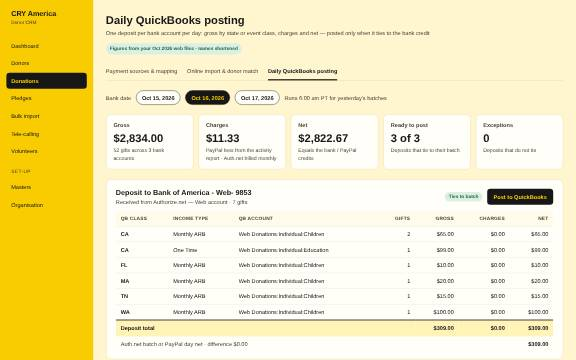
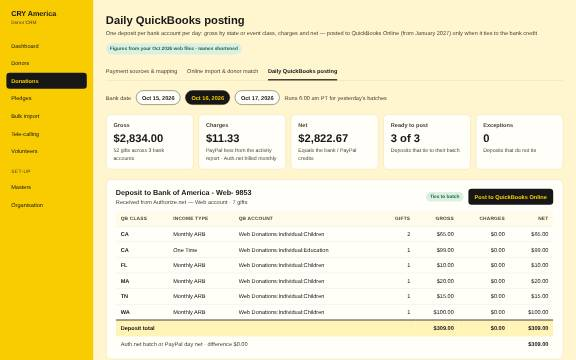
Post to QuickBooks Online (CRY migrates to QBO in January 2027)
- WF-7 and the daily posting screen now post via the QBO API
- Until cutover the daily summary is a file for entry in QuickBooks Desktop

Claude-Session: https://claude.ai/code/session_012G5zuh1qeeaBXhxrmdcrmu

Changed region(s): [[0.625, 0.0611, 0.9375, 0.1222], [0.7188, 0.5194, 0.9375, 0.5806]]

diff --git a/PAY-QBO.dc.html b/PAY-QBO.dc.html
@@ -30,7 +30,7 @@ a{color:#171717}a:hover{color:#8A5A00}
 </nav>
 <main style="flex: 999 1 560px; min-width: 0; padding: 32px 32px 48px; box-sizing: border-box; display: flex; flex-direction: column; gap: 24px">
 <div style="display: flex; flex-wrap: wrap; gap: 16px; justify-content: space-between; align-items: flex-end">
-<div style="display: flex; flex-direction: column; gap: 4px"><h1 style="margin: 0; font-size: 28px; line-height: 36px; font-weight: 600">Daily QuickBooks posting</h1><span style="color: #4A4636">One deposit per bank account per day: gross by state or event class, charges and net — posted only when it ties to the bank credit</span></div>
+<div style="display: flex; flex-direction: column; gap: 4px"><h1 style="margin: 0; font-size: 28px; line-height: 36px; font-weight: 600">Daily QuickBooks posting</h1><span style="color: #4A4636">One deposit per bank account per day: gross by state or event class, charges and net — posted to QuickBooks Online (from January 2027) only when it ties to the bank credit</span></div>
 <div style="display: flex; flex-wrap: wrap; gap: 12px; align-items: center"><span style="padding: 4px 10px; border-radius: 999px; background: #DCEFE3; color: #1E6B47; font-size: 12px; font-weight: 600">Figures from your Oct 2026 web files · names shortened</span></div>
 </div>
 <div role="tablist" aria-label="Payments" style="display: flex; gap: 24px; border-bottom: 1px solid #E8D9A8; flex-wrap: wrap"><a href="PAY-Sources.dc.html" role="tab" aria-selected="false" style="padding: 8px 0 10px; text-decoration: none; white-space: nowrap; color: #4A4636">Payment sources & mapping</a><a href="PAY-Import.dc.html" role="tab" aria-selected="false" style="padding: 8px 0 10px; text-decoration: none; white-space: nowrap; color: #4A4636">Online import & donor match</a><a href="PAY-QBO.dc.html" role="tab" aria-selected="true" style="padding: 8px 0 10px; text-decoration: none; white-space: nowrap; border-bottom: 3px solid #171717; font-weight: 600; color: #171717">Daily QuickBooks posting</a></div>
@@ -54,7 +54,7 @@ a{color:#171717}a:hover{color:#8A5A00}
 class Component extends DCLogic {
 constructor(props) { super(props); this.state = { day: 'Oct 16' }; }
 renderVals() {
-const D = {"Oct 15": {"deps": [{"bank": "Bank of America - Web- 9853", "from": "Authorize.net \u2014 Web account", "lines": [{"cls": "CA", "it": "Monthly ARB", "acct": "Web Donations:Individual:Children", "n": 3, "g": "$110.00", "c": "$0.00", "net": "$110.00"}, {"cls": "FL", "it": "Monthly ARB", "acct": "Web Donations:Individual:Children", "n": 1, "g": "$50.00", "c": "$0.00", "net": "$50.00"}, {"cls": "VA", "it": "Monthly ARB", "acct": "Web Donations:Individual:Children", "n": 1, "g": "$25.00", "c": "$0.00", "net": "$25.00"}], "n": 5, "g": "$185.00", "c": "$0.00", "net": "$185.00", "batch": "$185.00", "diff": "$0.00", "st": "Ties to batch", "sbg": "#DCEFE3", "sfg": "#1E6B47", "can": "true", "btn": "Post to QuickBooks", "bbg": "#171717", "bfg": "#F9CC02"}, {"bank": "Bank of America -Web Event-1161", "from": "Authorize.net \u2014 Events account", "lines": [{"cls": "CA:San Diego:Dandiya", "it": "Event Registrations", "acct": "Event Donations:Ticket Sales", "n": 10, "g": "$831.00", "c": "$0.00", "net": "$831.00"}, {"cls": "CA:San Diego:Dandiya", "it": "Event Sponsorships", "acct": "Event Donations:Sponsorships", "n": 1, "g": "$100.00", "c": "$0.00", "net": "$100.00"}, {"cls": "TX:Houston:Dandia", "it": "Event Registrations", "acct": "Event Donations:Ticket Sales", "n": 3, "g": "$75.00", "c": "$0.00", "net": "$75.00"}], "n": 14, "g": "$1,006.00", "c": "$0.00", "net": "$1,006.00", "batch": "$1,006.00", "diff": "$0.00", "st": "Ties to batch", "sbg": "#DCEFE3", "sfg": "#1E6B47", "can": "true", "btn": "Post to QuickBooks", "bbg": "#171717", "bfg": "#F9CC02"}, {"bank": "PayPal Account", "from": "PayPal", "lines": [{"cls": "CA:San Diego:Dandiya", "it": "Event Registrations", "acct": "Event Donations:Ticket Sales", "n": 2, "g": "$70.00", "c": "$2.25", "net": "$67.75"}, {"cls": "TX", "it": "One Time", "acct": "Web Donations:Individual:Children", "n": 1, "g": "$151.00", "c": "$3.49", "net": "$147.51"}, {"cls": "TX:Houston:Dandia", "it": "Event Registrations", "acct": "Event Donations:Ticket Sales", "n": 2, "g": "$312.00", "c": "$7.19", "net": "$304.81"}], "n": 5, "g": "$533.00", "c": "$12.93", "net": "$520.07", "batch": "$520.07", "diff": "$0.00", "st": "Ties to batch", "sbg": "#DCEFE3", "sfg": "#1E6B47", "can": "true", "btn": "Post to QuickBooks", "bbg": "#171717", "bfg": "#F9CC02"}], "kpis": [{"l": "Gross", "v": "$1,724.00", "n": "24 gifts across 3 bank accounts"}, {"l": "Charges", "v": "$12.93", "n": "PayPal fees from the activity report \u00b7 Auth.net billed monthly"}, {"l": "Net", "v": "$1,711.07", "n": "Equals the bank / PayPal credits"}, {"l": "Ready to post", "v": "3 of 3", "n": "Deposits that tie to their batch"}, {"l": "Exceptions", "v": "0", "n": "Deposits that do not tie"}], "exc": []}, "Oct 16": {"deps": [{"bank": "Bank of America - Web- 9853", "from": "Authorize.net \u2014 Web account", "lines": [{"cls": "CA", "it": "Monthly ARB", "acct": "Web Donations:Individual:Children", "n": 2, "g": "$65.00", "c": "$0.00", "net": "$65.00"}, {"cls": "CA", "it": "One Time", "acct": "Web Donations:Individual:Education", "n": 1, "g": "$99.00", "c": "$0.00", "net": "$99.00"}, {"cls": "FL", "it": "Monthly ARB", "acct": "Web Donations:Individual:Children", "n": 1, "g": "$10.00", "c": "$0.00", "net": "$10.00"}, {"cls": "MA", "it": "Monthly ARB", "acct": "Web Donations:Individual:Children", "n": 1, "g": "$20.00", "c": "$0.00", "net": "$20.00"}, {"cls": "TN", "it": "Monthly ARB", "acct": "Web Donations:Individual:Children", "n": 1, "g": "$15.00", "c": "$0.00", "net": "$15.00"}, {"cls": "WA", "it": "Monthly ARB", "acct": "Web Donations:Individual:Children", "n": 1, "g": "$100.00", "c": "$0.00", "net": "$100.00"}], "n": 7, "g": "$309.00", "c": "$0.00", "net": "$309.00", "batch": "$309.00", "diff": "$0.00", "st": "Ties to batch", "sbg": "#DCEFE3", "sfg": "#1E6B47", "can": "true", "btn": "Post to QuickBooks", "bbg": "#171717", "bfg": "#F9CC02"}, {"bank": "Bank of America -Web Event-1161", "from": "Authorize.net \u2014 Events account", "lines": [{"cls": "CA:San Diego:Dandiya", "it": "Event Donations", "acct": "Event Donations:Child Rights", "n": 1, "g": "$25.00", "c": "$0.00", "net": "$25.00"}, {"cls": "CA:San Diego:Dandiya", "it": "Event Registrations", "acct": "Event Donations:Ticket Sales", "n": 29, "g": "$1,701.00", "c": "$0.00", "net": "$1,701.00"}, {"cls": "TX:Houston:Dandia", "it": "Event Registrations", "acct": "Event Donations:Ticket Sales", "n": 7, "g": "$421.00", "c": "$0.00", "net": "$421.00"}], "n": 37, "g": "$2,147.00", "c": "$0.00", "net": "$2,147.00", "batch": "$2,147.00", "diff": "$0.00", "st": "Ties to batch", "sbg": "#DCEFE3", "sfg": "#1E6B47", "can": "true", "btn": "Post to QuickBooks", "bbg": "#171717", "bfg": "#F9CC02"}, {"bank": "PayPal Account", "from": "PayPal", "lines": [{"cls": "CA:San Diego:Dandiya", "it": "Event Registrations", "acct": "Event Donations:Ticket Sales", "n": 8, "g": "$378.00", "c": "$11.33", "net": "$366.67"}], "n": 8, "g": "$378.00", "c": "$11.33", "net": "$366.67", "batch": "$366.67", "diff": "$0.00", "st": "Ties to batch", "sbg": "#DCEFE3", "sfg": "#1E6B47", "can": "true", "btn": "Post to QuickBooks", "bbg": "#171717", "bfg": "#F9CC02"}], "kpis": [{"l": "Gross", "v": "$2,834.00", "n": "52 gifts across 3 bank accounts"}, {"l": "Charges", "v": "$11.33", "n": "PayPal fees from the activity report \u00b7 Auth.net billed monthly"}, {"l": "Net", "v": "$2,822.67", "n": "Equals the bank / PayPal credits"}, {"l": "Ready to post", "v": "3 of 3", "n": "Deposits that tie to their batch"}, {"l": "Exceptions", "v": "0", "n": "Deposits that do not tie"}], "exc": []}, "Oct 17": {"deps": [{"bank": "Bank of America - Web- 9853", "from": "Authorize.net \u2014 Web account", "lines": [{"cls": "CA", "it": "Monthly ARB", "acct": "Web Donations:Individual:Children", "n": 2, "g": "$65.00", "c": "$0.00", "net": "$65.00"}, {"cls": "CA", "it": "One Time", "acct": "Web Donations:Individual:Education", "n": 1, "g": "$49.00", "c": "$0.00", "net": "$49.00"}, {"cls": "IL", "it": "Monthly ARB", "acct": "Web Donations:Individual:Children", "n": 1, "g": "$25.00", "c": "$0.00", "net": "$25.00"}, {"cls": "MI", "it": "One Time", "acct": "Web Donations:Individual:Children", "n": 1, "g": "$500.00", "c": "$0.00", "net": "$500.00"}, {"cls": "OK", "it": "Monthly ARB", "acct": "Web Donations:Individual:Children", "n": 1, "g": "$50.00", "c": "$0.00", "net": "$50.00"}, {"cls": "TN", "it": "Monthly ARB", "acct": "Web Donations:Individual:Children", "n": 1, "g": "$25.00", "c": "$0.00", "net": "$25.00"}, {"cls": "TN", "it": "One Time", "acct": "Web Donations:Individual:Children", "n": 1, "g": "$750.00", "c": "$0.00", "net": "$750.00"}], "n": 8, "g": "$1,464.00", "c": "$0.00", "net": "$1,464.00", "batch": "$1,464.00", "diff": "$0.00", "st": "Ties to batch", "sbg": "#DCEFE3", "sfg": "#1E6B47", "can": "true", "btn": "Post to QuickBooks", "bbg": "#171717", "bfg": "#F9CC02"}, {"bank": "Bank of America -Web Event-1161", "from": "Authorize.net \u2014 Events account", "lines": [{"cls": "CA:San Diego:Dandiya", "it": "Event Registrations", "acct": "Event Donations:Ticket Sales", "n": 69, "g": "$5,172.00", "c": "$0.00", "net": "$5,172.00"}, {"cls": "TX:Houston:Dandia", "it": "Event Registrations", "acct": "Event Donations:Ticket Sales", "n": 5, "g": "$173.00", "c": "$0.00", "net": "$173.00"}], "n": 74, "g": "$5,345.00", "c": "$0.00", "net": "$5,345.00", "batch": "$5,345.00", "diff": "$0.00", "st": "Ties to batch", "sbg": "#DCEFE3", "sfg": "#1E6B47", "can": "true", "btn": "Post to QuickBooks", "bbg": "#171717", "bfg": "#F9CC02"}, {"bank": "PayPal Account", "from": "PayPal", "lines": [{"cls": "CA:San Diego:Dandiya", "it": "Event Registrations", "acct": "Event Donations:Ticket Sales", "n": 9, "g": "$613.00", "c": "$16.43", "net": "$596.57"}], "n": 9, "g": "$613.00", "c": "$16.43", "net": "$596.57", "batch": "$596.57", "diff": "$0.00", "st": "Ties to batch", "sbg": "#DCEFE3", "sfg": "#1E6B47", "can": "true", "btn": "Post to QuickBooks", "bbg": "#171717", "bfg": "#F9CC02"}], "kpis": [{"l": "Gross", "v": "$7,422.00", "n": "91 gifts across 3 bank accounts"}, {"l": "Charges", "v": "$16.43", "n": "PayPal fees from the activity report \u00b7 Auth.net billed monthly"}, {"l": "Net", "v": "$7,405.57", "n": "Equals the bank / PayPal credits"}, {"l": "Ready to post", "v": "3 of 3", "n": "Deposits that tie to their batch"}, {"l": "Exceptions", "v": "0", "n": "Deposits that do not tie"}], "exc": []}};
+const D = {"Oct 15": {"deps": [{"bank": "Bank of America - Web- 9853", "from": "Authorize.net \u2014 Web account", "lines": [{"cls": "CA", "it": "Monthly ARB", "acct": "Web Donations:Individual:Children", "n": 3, "g": "$110.00", "c": "$0.00", "net": "$110.00"}, {"cls": "FL", "it": "Monthly ARB", "acct": "Web Donations:Individual:Children", "n": 1, "g": "$50.00", "c": "$0.00", "net": "$50.00"}, {"cls": "VA", "it": "Monthly ARB", "acct": "Web Donations:Individual:Children", "n": 1, "g": "$25.00", "c": "$0.00", "net": "$25.00"}], "n": 5, "g": "$185.00", "c": "$0.00", "net": "$185.00", "batch": "$185.00", "diff": "$0.00", "st": "Ties to batch", "sbg": "#DCEFE3", "sfg": "#1E6B47", "can": "true", "btn": "Post to QuickBooks Online", "bbg": "#171717", "bfg": "#F9CC02"}, {"bank": "Bank of America -Web Event-1161", "from": "Authorize.net \u2014 Events account", "lines": [{"cls": "CA:San Diego:Dandiya", "it": "Event Registrations", "acct": "Event Donations:Ticket Sales", "n": 10, "g": "$831.00", "c": "$0.00", "net": "$831.00"}, {"cls": "CA:San Diego:Dandiya", "it": "Event Sponsorships", "acct": "Event Donations:Sponsorships", "n": 1, "g": "$100.00", "c": "$0.00", "net": "$100.00"}, {"cls": "TX:Houston:Dandia", "it": "Event Registrations", "acct": "Event Donations:Ticket Sales", "n": 3, "g": "$75.00", "c": "$0.00", "net": "$75.00"}], "n": 14, "g": "$1,006.00", "c": "$0.00", "net": "$1,006.00", "batch": "$1,006.00", "diff": "$0.00", "st": "Ties to batch", "sbg": "#DCEFE3", "sfg": "#1E6B47", "can": "true", "btn": "Post to QuickBooks Online", "bbg": "#171717", "bfg": "#F9CC02"}, {"bank": "PayPal Account", "from": "PayPal", "lines": [{"cls": "CA:San Diego:Dandiya", "it": "Event Registrations", "acct": "Event Donations:Ticket Sales", "n": 2, "g": "$70.00", "c": "$2.25", "net": "$67.75"}, {"cls": "TX", "it": "One Time", "acct": "Web Donations:Individual:Children", "n": 1, "g": "$151.00", "c": "$3.49", "net": "$147.51"}, {"cls": "TX:Houston:Dandia", "it": "Event Registrations", "acct": "Event Donations:Ticket Sales", "n": 2, "g": "$312.00", "c": "$7.19", "net": "$304.81"}], "n": 5, "g": "$533.00", "c": "$12.93", "net": "$520.07", "batch": "$520.07", "diff": "$0.00", "st": "Ties to batch", "sbg": "#DCEFE3", "sfg": "#1E6B47", "can": "true", "btn": "Post to QuickBooks Online", "bbg": "#171717", "bfg": "#F9CC02"}], "kpis": [{"l": "Gross", "v": "$1,724.00", "n": "24 gifts across 3 bank accounts"}, {"l": "Charges", "v": "$12.93", "n": "PayPal fees from the activity report \u00b7 Auth.net billed monthly"}, {"l": "Net", "v": "$1,711.07", "n": "Equals the bank / PayPal credits"}, {"l": "Ready to post", "v": "3 of 3", "n": "Deposits that tie to their batch"}, {"l": "Exceptions", "v": "0", "n": "Deposits that do not tie"}], "exc": []}, "Oct 16": {"deps": [{"bank": "Bank of America - Web- 9853", "from": "Authorize.net \u2014 Web account", "lines": [{"cls": "CA", "it": "Monthly ARB", "acct": "Web Donations:Individual:Children", "n": 2, "g": "$65.00", "c": "$0.00", "net": "$65.00"}, {"cls": "CA", "it": "One Time", "acct": "Web Donations:Individual:Education", "n": 1, "g": "$99.00", "c": "$0.00", "net": "$99.00"}, {"cls": "FL", "it": "Monthly ARB", "acct": "Web Donations:Individual:Children", "n": 1, "g": "$10.00", "c": "$0.00", "net": "$10.00"}, {"cls": "MA", "it": "Monthly ARB", "acct": "Web Donations:Individual:Children", "n": 1, "g": "$20.00", "c": "$0.00", "net": "$20.00"}, {"cls": "TN", "it": "Monthly ARB", "acct": "Web Donations:Individual:Children", "n": 1, "g": "$15.00", "c": "$0.00", "net": "$15.00"}, {"cls": "WA", "it": "Monthly ARB", "acct": "Web Donations:Individual:Children", "n": 1, "g": "$100.00", "c": "$0.00", "net": "$100.00"}], "n": 7, "g": "$309.00", "c": "$0.00", "net": "$309.00", "batch": "$309.00", "diff": "$0.00", "st": "Ties to batch", "sbg": "#DCEFE3", "sfg": "#1E6B47", "can": "true", "btn": "Post to QuickBooks Online", "bbg": "#171717", "bfg": "#F9CC02"}, {"bank": "Bank of America -Web Event-1161", "from": "Authorize.net \u2014 Events account", "lines": [{"cls": "CA:San Diego:Dandiya", "it": "Event Donations", "acct": "Event Donations:Child Rights", "n": 1, "g": "$25.00", "c": "$0.00", "net": "$25.00"}, {"cls": "CA:San Diego:Dandiya", "it": "Event Registrations", "acct": "Event Donations:Ticket Sales", "n": 29, "g": "$1,701.00", "c": "$0.00", "net": "$1,701.00"}, {"cls": "TX:Houston:Dandia", "it": "Event Registrations", "acct": "Event Donations:Ticket Sales", "n": 7, "g": "$421.00", "c": "$0.00", "net": "$421.00"}], "n": 37, "g": "$2,147.00", "c": "$0.00", "net": "$2,147.00", "batch": "$2,147.00", "diff": "$0.00", "st": "Ties to batch", "sbg": "#DCEFE3", "sfg": "#1E6B47", "can": "true", "btn": "Post to QuickBooks Online", "bbg": "#171717", "bfg": "#F9CC02"}, {"bank": "PayPal Account", "from": "PayPal", "lines": [{"cls": "CA:San Diego:Dandiya", "it": "Event Registrations", "acct": "Event Donations:Ticket Sales", "n": 8, "g": "$378.00", "c": "$11.33", "net": "$366.67"}], "n": 8, "g": "$378.00", "c": "$11.33", "net": "$366.67", "batch": "$366.67", "diff": "$0.00", "st": "Ties to batch", "sbg": "#DCEFE3", "sfg": "#1E6B47", "can": "true", "btn": "Post to QuickBooks Online", "bbg": "#171717", "bfg": "#F9CC02"}], "kpis": [{"l": "Gross", "v": "$2,834.00", "n": "52 gifts across 3 bank accounts"}, {"l": "Charges", "v": "$11.33", "n": "PayPal fees from the activity report \u00b7 Auth.net billed monthly"}, {"l": "Net", "v": "$2,822.67", "n": "Equals the bank / PayPal credits"}, {"l": "Ready to post", "v": "3 of 3", "n": "Deposits that tie to their batch"}, {"l": "Exceptions", "v": "0", "n": "Deposits that do not tie"}], "exc": []}, "Oct 17": {"deps": [{"bank": "Bank of America - Web- 9853", "from": "Authorize.net \u2014 Web account", "lines": [{"cls": "CA", "it": "Monthly ARB", "acct": "Web Donations:Individual:Children", "n": 2, "g": "$65.00", "c": "$0.00", "net": "$65.00"}, {"cls": "CA", "it": "One Time", "acct": "Web Donations:Individual:Education", "n": 1, "g": "$49.00", "c": "$0.00", "net": "$49.00"}, {"cls": "IL", "it": "Monthly ARB", "acct": "Web Donations:Individual:Children", "n": 1, "g": "$25.00", "c": "$0.00", "net": "$25.00"}, {"cls": "MI", "it": "One Time", "acct": "Web Donations:Individual:Children", "n": 1, "g": "$500.00", "c": "$0.00", "net": "$500.00"}, {"cls": "OK", "it": "Monthly ARB", "acct": "Web Donations:Individual:Children", "n": 1, "g": "$50.00", "c": "$0.00", "net": "$50.00"}, {"cls": "TN", "it": "Monthly ARB", "acct": "Web Donations:Individual:Children", "n": 1, "g": "$25.00", "c": "$0.00", "net": "$25.00"}, {"cls": "TN", "it": "One Time", "acct": "Web Donations:Individual:Children", "n": 1, "g": "$750.00", "c": "$0.00", "net": "$750.00"}], "n": 8, "g": "$1,464.00", "c": "$0.00", "net": "$1,464.00", "batch": "$1,464.00", "diff": "$0.00", "st": "Ties to batch", "sbg": "#DCEFE3", "sfg": "#1E6B47", "can": "true", "btn": "Post to QuickBooks Online", "bbg": "#171717", "bfg": "#F9CC02"}, {"bank": "Bank of America -Web Event-1161", "from": "Authorize.net \u2014 Events account", "lines": [{"cls": "CA:San Diego:Dandiya", "it": "Event Registrations", "acct": "Event Donations:Ticket Sales", "n": 69, "g": "$5,172.00", "c": "$0.00", "net": "$5,172.00"}, {"cls": "TX:Houston:Dandia", "it": "Event Registrations", "acct": "Event Donations:Ticket Sales", "n": 5, "g": "$173.00", "c": "$0.00", "net": "$173.00"}], "n": 74, "g": "$5,345.00", "c": "$0.00", "net": "$5,345.00", "batch": "$5,345.00", "diff": "$0.00", "st": "Ties to batch", "sbg": "#DCEFE3", "sfg": "#1E6B47", "can": "true", "btn": "Post to QuickBooks Online", "bbg": "#171717", "bfg": "#F9CC02"}, {"bank": "PayPal Account", "from": "PayPal", "lines": [{"cls": "CA:San Diego:Dandiya", "it": "Event Registrations", "acct": "Event Donations:Ticket Sales", "n": 9, "g": "$613.00", "c": "$16.43", "net": "$596.57"}], "n": 9, "g": "$613.00", "c": "$16.43", "net": "$596.57", "batch": "$596.57", "diff": "$0.00", "st": "Ties to batch", "sbg": "#DCEFE3", "sfg": "#1E6B47", "can": "true", "btn": "Post to QuickBooks Online", "bbg": "#171717", "bfg": "#F9CC02"}], "kpis": [{"l": "Gross", "v": "$7,422.00", "n": "91 gifts across 3 bank accounts"}, {"l": "Charges", "v": "$16.43", "n": "PayPal fees from the activity report \u00b7 Auth.net billed monthly"}, {"l": "Net", "v": "$7,405.57", "n": "Equals the bank / PayPal credits"}, {"l": "Ready to post", "v": "3 of 3", "n": "Deposits that tie to their batch"}, {"l": "Exceptions", "v": "0", "n": "Deposits that do not tie"}], "exc": []}};
 const d = this.state.day; const x = D[d];
 const dayTabs = Object.keys(D).map((k) => ({ label: k, sel: d === k ? 'true' : 'false', bg: d === k ? '#171717' : '#FFFEF9', fg: d === k ? '#F9CC02' : '#171717', pick: () => this.setState({ day: k }) }));
 return { dayTabs: dayTabs, kpis: x.kpis, deps: x.deps, exc: x.exc, hasExc: x.exc.length > 0 };

diff --git a/WF7-Daily-QBO-Summary.dc.html b/WF7-Daily-QBO-Summary.dc.html
@@ -27,7 +27,7 @@ body{margin:0}
 <svg width="78" height="8" viewBox="0 0 78 8" preserveAspectRatio="none" style="position: absolute; left: 1536px; top: 396px; width: 78px; height: 8px; overflow: visible; fill: none; stroke: #8a8378; stroke-width: 2; stroke-linecap: round; stroke-linejoin: round"><defs><marker id="pf-ah-WF-7-11" orient="auto" markerWidth="5" markerHeight="5" refX="2" refY="2" overflow="visible"><path d="M0 0 L4 2 L0 4 Z" fill="#8a8378" stroke="none" style="stroke: none; fill: #8a8378; fill: context-stroke"/></marker></defs><path d="M 4 4 L 70 4" marker-end="url(#pf-ah-WF-7-11)"></path></svg>
 <svg width="8" height="108" viewBox="0 0 8 108" preserveAspectRatio="none" style="position: absolute; left: 1721px; top: 456px; width: 8px; height: 108px; overflow: visible; fill: none; stroke: #8a8378; stroke-width: 2; stroke-linecap: round; stroke-linejoin: round"><defs><marker id="pf-ah-WF-7-12" orient="auto" markerWidth="5" markerHeight="5" refX="2" refY="2" overflow="visible"><path d="M0 0 L4 2 L0 4 Z" fill="#8a8378" stroke="none" style="stroke: none; fill: #8a8378; fill: context-stroke"/></marker></defs><path d="M 4 4 L 4 100" marker-end="url(#pf-ah-WF-7-12)"></path></svg>
 <svg width="78" height="8" viewBox="0 0 78 8" preserveAspectRatio="none" style="position: absolute; left: 1836px; top: 611px; width: 78px; height: 8px; overflow: visible; fill: none; stroke: #8a8378; stroke-width: 2; stroke-linecap: round; stroke-linejoin: round"><defs><marker id="pf-ah-WF-7-13" orient="auto" markerWidth="5" markerHeight="5" refX="2" refY="2" overflow="visible"><path d="M0 0 L4 2 L0 4 Z" fill="#8a8378" stroke="none" style="stroke: none; fill: #8a8378; fill: context-stroke"/></marker></defs><path d="M 4 4 L 70 4" marker-end="url(#pf-ah-WF-7-13)"></path></svg>
-<div style="position: absolute; left: 64px; top: 48px; font-size: 24px; line-height: 32px; font-weight: 600; color: #171717">WF-7 · Daily QBO summary that ties to the bank</div><div style="position: absolute; left: 64px; top: 86px; width: 2112px; font-size: 14px; line-height: 20px; color: #4A4636">Runs every morning. One QBO deposit per bank account per settlement batch, with gross by state or event class, charges and net. Net must equal the bank credit before it posts.</div>
+<div style="position: absolute; left: 64px; top: 48px; font-size: 24px; line-height: 32px; font-weight: 600; color: #171717">WF-7 · Daily QuickBooks Online summary that ties to the bank</div><div style="position: absolute; left: 64px; top: 86px; width: 2112px; font-size: 14px; line-height: 20px; color: #4A4636">Runs every morning. One QBO deposit per bank account per settlement batch, with gross by state or event class, charges and net. Net must equal the bank credit before it posts.</div>
 <div style="position: absolute; left: 64px; top: 160px; width: 250px; height: 92px; box-sizing: border-box; padding: 10px 12px; display: flex; align-items: center; justify-content: center; text-align: center; background: #F9CC02; border: 1px solid #E3C3A0; border-radius: 10px; font-size: 14px; line-height: 18px; color: #171717"><span><b>Auth.net — Web account</b><br>Settled batch → BoA Web- 9853</span></div>
 <div style="position: absolute; left: 64px; top: 280px; width: 250px; height: 92px; box-sizing: border-box; padding: 10px 12px; display: flex; align-items: center; justify-content: center; text-align: center; background: #F9CC02; border: 1px solid #E3C3A0; border-radius: 10px; font-size: 14px; line-height: 18px; color: #171717"><span><b>Auth.net — Events account</b><br>Settled batch → BoA Web Event-1161</span></div>
 <div style="position: absolute; left: 64px; top: 400px; width: 250px; height: 92px; box-sizing: border-box; padding: 10px 12px; display: flex; align-items: center; justify-content: center; text-align: center; background: #F9CC02; border: 1px solid #E3C3A0; border-radius: 10px; font-size: 14px; line-height: 18px; color: #171717"><span><b>PayPal activity report</b><br>Gross, fee, net per day → PayPal Account</span></div>
@@ -39,12 +39,12 @@ body{margin:0}
 <div style="position: absolute; left: 1320px; top: 140px; width: 220px; height: 110px; box-sizing: border-box; padding: 10px 12px; display: flex; align-items: center; justify-content: center; text-align: center; background: #FBE4E2; border: 1px solid #E8B9B4; border-radius: 10px; font-size: 14px; line-height: 18px; color: #171717"><span><b>Exception queue</b><br>Gift missing in batch, extra in batch, or amount differs</span></div>
 <div style="position: absolute; left: 1440px; top: 282px; width: 40px; text-align: center; font-size: 13px; line-height: 16px; color: #4A4636; background: #FFF6CF">no</div>
 <div style="position: absolute; left: 1150px; top: 170px; width: 120px; text-align: center; font-size: 13px; line-height: 16px; color: #4A4636; background: #FFF6CF">fixed → rebuild</div>
-<div style="position: absolute; left: 1610px; top: 340px; width: 230px; height: 120px; box-sizing: border-box; padding: 10px 12px; display: flex; align-items: center; justify-content: center; text-align: center; background: #EAF0F8; border: 1px solid #C9D5E8; border-radius: 10px; font-size: 14px; line-height: 18px; color: #171717"><span><b>Post to QBO</b><br>DepositAdd: bank, account, class, payment method, amount, memo (QB ListIDs)</span></div>
+<div style="position: absolute; left: 1610px; top: 340px; width: 230px; height: 120px; box-sizing: border-box; padding: 10px 12px; display: flex; align-items: center; justify-content: center; text-align: center; background: #EAF0F8; border: 1px solid #C9D5E8; border-radius: 10px; font-size: 14px; line-height: 18px; color: #171717"><span><b>Post to QBO</b><br>QBO API Deposit: bank, account, class, payment method, amount, memo (QBO IDs)</span></div>
 <div style="position: absolute; left: 1546px; top: 378px; width: 40px; text-align: center; font-size: 13px; line-height: 16px; color: #4A4636; background: #FFF6CF">yes</div>
 <div style="position: absolute; left: 1610px; top: 560px; width: 230px; height: 110px; box-sizing: border-box; padding: 10px 12px; display: flex; align-items: center; justify-content: center; text-align: center; background: #EAF0F8; border: 1px solid #C9D5E8; border-radius: 10px; font-size: 14px; line-height: 18px; color: #171717"><span><b>Store QBO deposit ID</b><br>On every gift in it; gift locked from editing</span></div>
 <div style="position: absolute; left: 1910px; top: 560px; width: 230px; height: 110px; box-sizing: border-box; padding: 10px 12px; display: flex; align-items: center; justify-content: center; text-align: center; background: #E3F1E8; border: 1px solid #B9DCC6; border-radius: 10px; font-size: 14px; line-height: 18px; color: #171717"><span><b>Reconciled</b><br>QBO bank feed matches the one credit</span></div>
 <div style="position: absolute; left: 64px; top: 660px; width: 1150px; font-size: 14px; line-height: 18px; color: #4A4636"><b>Example from your Oct 11–20 files — Oct 16</b><br>BoA Web- 9853: CA Monthly ARB $65 · CA One Time $99 · FL $10 · MA $20 · TN $15 · WA $100 → gross $309 · charges $0 → net $309 = Auth.net Web batch $309 ✓<br>PayPal Account: CA:San Diego:Dandiya registrations, 8 gifts → gross $378.00 · PayPal fees $11.33 → net $366.67 = PayPal day net ✓<br>All 26 daily deposits for Oct 11–20 tie to the cent once Auth.net rows are keyed on Transaction ID (3 monthly gifts have a blank Invoice Number).</div>
-<div style="position: absolute; left: 64px; top: 840px; width: 1800px; font-size: 13px; line-height: 18px; color: #4A4636">Charges: Auth.net = $0 per day if the processor bills monthly (confirm on the BoA statement) · PayPal = fee per payment from the activity report ($74.04 on $2,744.00, Oct 11–20) · Givebutter = Fee column (about 6.0%). Posting: QuickBooks Desktop via Web Connector (qbXML DepositAdd), or the QBO API if CRY moves to QuickBooks Online.</div>
+<div style="position: absolute; left: 64px; top: 840px; width: 1800px; font-size: 13px; line-height: 18px; color: #4A4636">Charges: Auth.net = $0 per day if the processor bills monthly (confirm on the BoA statement) · PayPal = fee per payment from the activity report ($74.04 on $2,744.00, Oct 11–20) · Givebutter = Fee column (about 6.0%). Posting: QuickBooks Online API from January 2027 (Deposit with a fees line); until cutover the summary is a file for entry in Desktop.</div>
 </div>
 </x-dc>
 <script type="text/x-dc" data-dc-script data-props='{"$preview":{"width":2240,"height":900}}'>

diff --git a/PAY-Sources.dc.html b/PAY-Sources.dc.html
@@ -14,7 +14,7 @@ body{margin:0}
 a{color:#171717}a:hover{color:#8A5A00}
 </style>
 </helmet>
-<div style="display: flex; flex-wrap: wrap; min-height: 2660px; background: #FFF6CF; color: #171717; font-family: 'IBM Plex Sans', sans-serif; font-size: 14px; line-height: 20px">
+<div style="display: flex; flex-wrap: wrap; min-height: 2680px; background: #FFF6CF; color: #171717; font-family: 'IBM Plex Sans', sans-serif; font-size: 14px; line-height: 20px">
 <nav aria-label="Main" style="flex: 1 1 232px; background: #F9CC02; color: #171717; padding: 24px 16px; box-sizing: border-box; display: flex; flex-direction: column; gap: 4px">
 <div style="padding: 0 12px 24px; display: flex; flex-direction: column; gap: 2px"><span style="font-size: 18px; font-weight: 700; color: #171717">CRY America</span><span style="font-size: 12px; color: #3D3A2E">Donor CRM</span></div>
 <a href="Main.dc.html" style="padding: 10px 12px; border-radius: 8px; color: #171717; text-decoration: none">Dashboard</a>
@@ -48,7 +48,7 @@ a{color:#171717}a:hover{color:#8A5A00}
 </main>
 </div>
 </x-dc>
-<script type="text/x-dc" data-dc-script data-props='{"$preview":{"width":1440,"height":2660}}'>
+<script type="text/x-dc" data-dc-script data-props='{"$preview":{"width":1440,"height":2680}}'>
 class Component extends DCLogic {
 constructor(props) { super(props); this.state = { src: 'Givebutter' }; }
 renderVals() {
